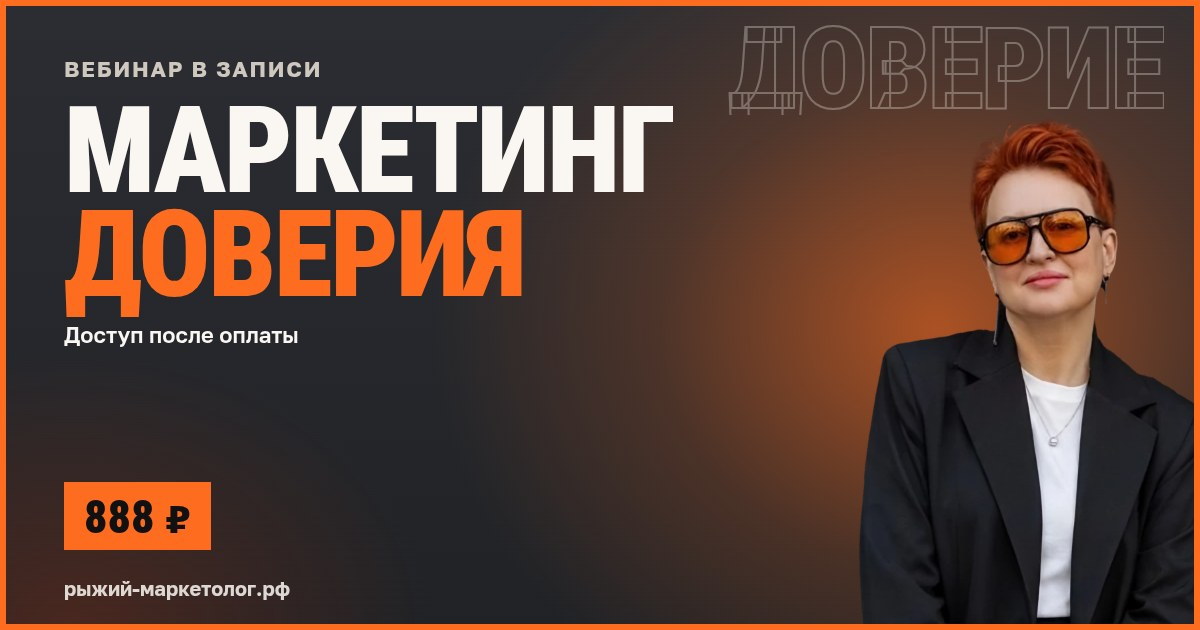
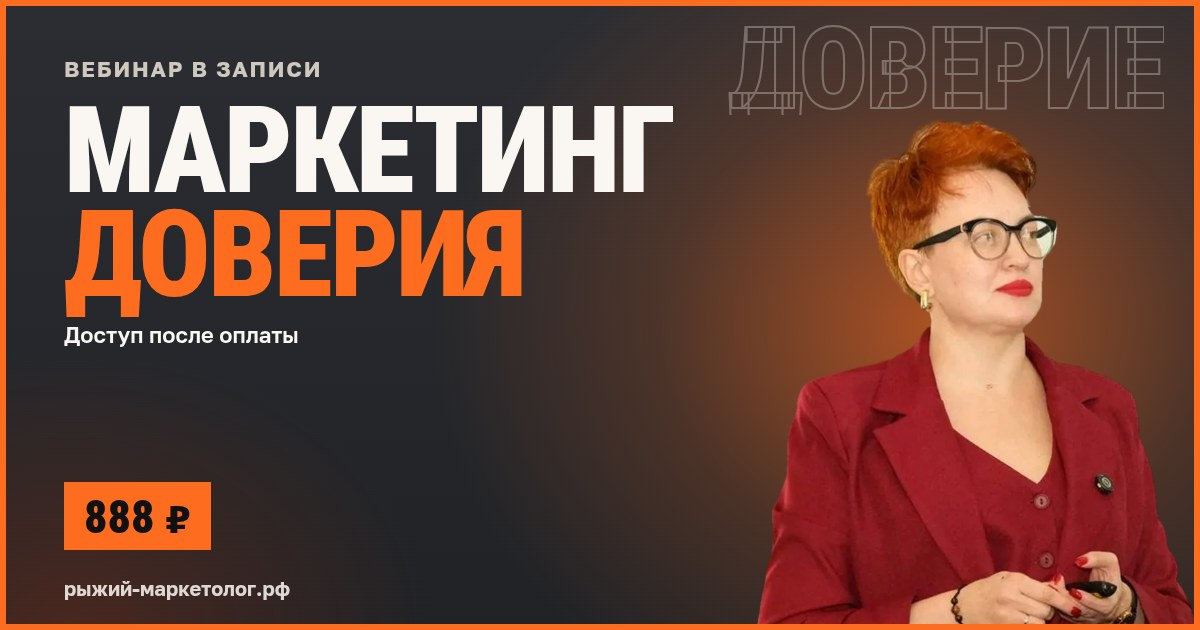
OG: у каждой содержательной страницы свой кадр
Возврат владельца («одна и та же»): ступени с языком только на главной,
нетворкинг — с телефоном, отзывы — тёплый портрет у стены, распаковка — шарф,
развитие — терраса, позиционирование — за столом (логотип за кадром),
записи — сцена с микрофоном и с шарами. Вырезы полным рецептом из библиотеки 2400 px,
лица прошли QC 1:1. ?v=20261022c, check-og: 16 страниц, 0 ошибок.

Claude-Session: https://claude.ai/code/session_011L8x4ubt6M66K2YLfJQJ7S

Changed region(s): [[0.6167, 0.181, 1.0, 0.9952]]

diff --git a/specs/005-og-cards/og-template.html b/specs/005-og-cards/og-template.html
@@ -43,7 +43,10 @@ const rub=s=>s.replace(/\s*₽/,R).replace(/(\d) (\d{3})/g,'$1 $2');
 // Кадры: вырезы новой съёмки (cut/og-suit-*.webp, x4 + BiRefNet + face-parsing) и дуэт вебинара.
 // fh — высота выреза на карточке. Макушка всегда на y=118: голова заходит только на низ слова-эхо (приём первого экрана вебинара),
 // низ фигуры уходит за край. Левый край фигуры — не левее x=752: колонке текста остаётся 660 px. fr — желаемый отступ справа.
-const STAIRS='cut/og-suit-stairs-tongue.webp', SQUAT='cut/og-suit-street-squat.webp', WALL='cut/og-suit-wall-bag.webp';
+const STAIRS='cut/og-suit-stairs-tongue.webp', WALL='cut/og-suit-wall-bag.webp';
+// у каждой из 10 содержательных страниц свой кадр (возврат владельца 22.10: «не каждая повторяется, а одна и та же»);
+// библиотека — cut/og-<имя>.webp из assets/img/<имя>-2400.webp, лица прошли QC 1:1 (qc.py), ступени с языком — только главная
+const CUT=n=>'cut/og-'+n+'.webp';
 const FULL={fh:520}, MID={fh:1000}, TOP=118, TEXT_W=660;
 const C=ev=>{
  const next=t=>ev.filter(e=>e.type===t&&Date.parse(e.start)>Date.now()).sort((a,b)=>Date.parse(a.start)-Date.parse(b.start));
@@ -52,16 +55,16 @@ const C=ev=>{
  'home':{img:STAIRS,...MID,fr:40,echo:'бренд',k:'Валентина Сухарева',h:'<em>Рыжий</em><br>маркетолог',sub:'Наставник по личному бренду',acc:'20+ лет в маркетинге'},
  'master-gruppa':{img:WALL,...FULL,fh:540,fr:90,echo:'группа',k:'Мастер-группа · до 5 человек',h:'Личный <em>бренд</em><br>за 4 недели',
    sub:'Онлайн · '+(mg?rub(mg.price):''),acc:mg?'Старт '+day(mg.start):''},
- 'networking':{img:SQUAT,...FULL,fr:30,echo:'связи',k:'Онлайн-нетворкинг',h:'Полезные<br><em>знакомства</em>',
+ 'networking':{img:CUT('portrait-phone-call'),fh:900,fr:0,echo:'связи',k:'Онлайн-нетворкинг',h:'Полезные<br><em>знакомства</em>',
    sub:nw.length?nw[0].time+' · Контур.Толк':'',acc:nw.slice(0,2).map(e=>day(e.start)).join(' и ')},
  'vebinar-uznavaemost':{img:'../../assets/img/vu-duo-1600.webp',fh:512,fr:24,gx:'74%',echo:'стиль',k:'Практический вебинар',h:'Чтобы тебя<br><em>запоминали</em>',
    sub:(vu?rub(vu.price):'')+' · с Анной Шиндиной',acc:vu?day(vu.start)+' · '+msk(vu.start,{hour:'2-digit',minute:'2-digit'})+' МСК':''},
- 'otzyvy':{img:WALL,...MID,fh:1040,fr:60,echo:'отзывы',k:'Отзывы клиенток',h:'Своими<br><em>словами</em>',sub:'Оригинал под каждым отзывом',acc:'30 отзывов без правок'},
- 'raspakovka':{img:STAIRS,...FULL,fr:30,echo:'игра',k:'Игра «Путь гениальности»',h:'Распаковка<br><em>личности</em>',sub:'2–4 часа · лично 10 000'+R,acc:'5 000'+R+' в группе'},
- 'razvitie':{img:SQUAT,...MID,fr:10,echo:'рост',k:'Наставник · 20+ лет в маркетинге',h:'Развитие<br>личного <em>бренда</em>',sub:'Консультация, мастер-группа, сопровождение',acc:'от 10 000'+R},
- 'pozicionirovanie':{img:SQUAT,...FULL,fr:30,echo:'смысл',k:'Статья',h:'Своё<br><em>позиционирование</em>',sub:'Вопросы и пример из практики',acc:'Больше подписчиков и клиентов'},
- 'zapis-lichnyj-brend':{img:STAIRS,...MID,fr:30,echo:'запись',k:'Вебинар в записи',h:'Как развить<br>личный <em>бренд</em>',sub:'Доступ сразу после оплаты',acc:'800'+R},
- 'marketing-doveriya':{img:WALL,...MID,fr:80,echo:'доверие',k:'Вебинар в записи',h:'Маркетинг<br><em>доверия</em>',sub:'Доступ после оплаты',acc:'888'+R},
+ 'otzyvy':{img:CUT('portrait-yalta-wall-smile'),fh:760,fr:20,echo:'отзывы',k:'Отзывы клиенток',h:'Своими<br><em>словами</em>',sub:'Оригинал под каждым отзывом',acc:'30 отзывов без правок'},
+ 'raspakovka':{img:CUT('portrait-plaid-closeup'),fh:620,fr:30,echo:'игра',k:'Игра «Путь гениальности»',h:'Распаковка<br><em>личности</em>',sub:'2–4 часа · лично 10 000'+R,acc:'5 000'+R+' в группе'},
+ 'razvitie':{img:CUT('portrait-terrace'),fh:880,fr:0,echo:'рост',k:'Наставник · 20+ лет в маркетинге',h:'Развитие<br>личного <em>бренда</em>',sub:'Консультация, мастер-группа, сопровождение',acc:'от 10 000'+R},
+ 'pozicionirovanie':{img:CUT('portrait-table-talk'),fh:560,fr:0,echo:'смысл',k:'Статья',h:'Своё<br><em>позиционирование</em>',sub:'Вопросы и пример из практики',acc:'Больше подписчиков и клиентов'},
+ 'zapis-lichnyj-brend':{img:CUT('portrait-mic'),fh:900,fr:40,echo:'запись',k:'Вебинар в записи',h:'Как развить<br>личный <em>бренд</em>',sub:'Доступ сразу после оплаты',acc:'800'+R},
+ 'marketing-doveriya':{img:CUT('speaker-balloons'),fh:760,fr:60,echo:'доверие',k:'Вебинар в записи',h:'Маркетинг<br><em>доверия</em>',sub:'Доступ после оплаты',acc:'888'+R},
  }};
 (async()=>{
  const id=new URLSearchParams(location.search).get('id');

diff --git a/vebinar-uznavaemost/index.html b/vebinar-uznavaemost/index.html
@@ -14,8 +14,8 @@
 <meta property="og:url" content="https://xn----8sbjhcmhkkgzbpg6a9j.xn--p1ai/vebinar-uznavaemost/">
 <meta property="og:title" content="Как сделать так, чтобы тебя запоминали — вебинар 29 октября">
 <meta property="og:description" content="Валентина Сухарева и Анна Шиндина, стилист-архетипист: смыслы, стиль и индивидуальность. 29 октября, 15:00 МСК, онлайн, 1 500 ₽.">
-<meta property="og:image" content="https://xn----8sbjhcmhkkgzbpg6a9j.xn--p1ai/assets/img/og-vebinar-uznavaemost.jpg?v=20261022b">
-<meta property="og:image:secure_url" content="https://xn----8sbjhcmhkkgzbpg6a9j.xn--p1ai/assets/img/og-vebinar-uznavaemost.jpg?v=20261022b">
+<meta property="og:image" content="https://xn----8sbjhcmhkkgzbpg6a9j.xn--p1ai/assets/img/og-vebinar-uznavaemost.jpg?v=20261022c">
+<meta property="og:image:secure_url" content="https://xn----8sbjhcmhkkgzbpg6a9j.xn--p1ai/assets/img/og-vebinar-uznavaemost.jpg?v=20261022c">
 <meta property="og:image:type" content="image/jpeg">
 <meta property="og:image:width" content="1200">
 <meta property="og:image:height" content="630">
@@ -23,7 +23,7 @@
 <meta name="twitter:card" content="summary_large_image">
 <meta name="twitter:title" content="Как сделать так, чтобы тебя запоминали — вебинар 29 октября">
 <meta name="twitter:description" content="Валентина Сухарева и Анна Шиндина, стилист-архетипист: смыслы, стиль и индивидуальность. 29 октября, 15:00 МСК, онлайн, 1 500 ₽.">
-<meta name="twitter:image" content="https://xn----8sbjhcmhkkgzbpg6a9j.xn--p1ai/assets/img/og-vebinar-uznavaemost.jpg?v=20261022b">
+<meta name="twitter:image" content="https://xn----8sbjhcmhkkgzbpg6a9j.xn--p1ai/assets/img/og-vebinar-uznavaemost.jpg?v=20261022c">
 <meta name="twitter:image:alt" content="Как сделать так, чтобы тебя запоминали. Практический вебинар 29 октября, 15:00 МСК, 1 500 ₽. Валентина Сухарева и Анна Шиндина.">
 <link rel="icon" href="/favicon.svg" type="image/svg+xml">
 <link rel="icon" href="/assets/img/favicon-32.png" sizes="32x32" type="image/png">

diff --git a/zapis-marketing-doveriya/index.html b/zapis-marketing-doveriya/index.html
@@ -13,8 +13,8 @@
 <meta property="og:url" content="https://xn----8sbjhcmhkkgzbpg6a9j.xn--p1ai/zapis-marketing-doveriya/">
 <meta property="og:title" content="Маркетинг доверия — вебинар в записи">
 <meta property="og:description" content="Почему у вас не покупают, 9 факторов доверия, деньги в вашей базе и нейросети в контенте. Запись эфира Валентины Сухаревой, доступ после оплаты, 888 ₽.">
-<meta property="og:image" content="https://xn----8sbjhcmhkkgzbpg6a9j.xn--p1ai/assets/img/og-marketing-doveriya.jpg?v=20261022b">
-<meta property="og:image:secure_url" content="https://xn----8sbjhcmhkkgzbpg6a9j.xn--p1ai/assets/img/og-marketing-doveriya.jpg?v=20261022b">
+<meta property="og:image" content="https://xn----8sbjhcmhkkgzbpg6a9j.xn--p1ai/assets/img/og-marketing-doveriya.jpg?v=20261022c">
+<meta property="og:image:secure_url" content="https://xn----8sbjhcmhkkgzbpg6a9j.xn--p1ai/assets/img/og-marketing-doveriya.jpg?v=20261022c">
 <meta property="og:image:type" content="image/jpeg">
 <meta property="og:image:width" content="1200">
 <meta property="og:image:height" content="630">
@@ -22,7 +22,7 @@
 <meta name="twitter:card" content="summary_large_image">
 <meta name="twitter:title" content="Маркетинг доверия — вебинар в записи">
 <meta name="twitter:description" content="Почему у вас не покупают, 9 факторов доверия, деньги в вашей базе и нейросети в контенте. Запись эфира Валентины Сухаревой, доступ после оплаты, 888 ₽.">
-<meta name="twitter:image" content="https://xn----8sbjhcmhkkgzbpg6a9j.xn--p1ai/assets/img/og-marketing-doveriya.jpg?v=20261022b">
+<meta name="twitter:image" content="https://xn----8sbjhcmhkkgzbpg6a9j.xn--p1ai/assets/img/og-marketing-doveriya.jpg?v=20261022c">
 <meta name="twitter:image:alt" content="Маркетинг доверия. Вебинар в записи, доступ после оплаты, 888 ₽. Валентина Сухарева.">
 <link href="/favicon.svg" rel="icon" type="image/svg+xml"/>
 <link href="/assets/img/favicon-32.png" rel="icon" sizes="32x32" type="image/png"/>

diff --git a/zapis-lichnyj-brend/index.html b/zapis-lichnyj-brend/index.html
@@ -14,8 +14,8 @@
 <meta property="og:url" content="https://xn----8sbjhcmhkkgzbpg6a9j.xn--p1ai/zapis-lichnyj-brend/">
 <meta property="og:title" content="Как развить личный бренд — вебинар в записи">
 <meta property="og:description" content="Практический вебинар Валентины Сухаревой: позиционирование, маркетинг доверия и контент без выгорания. Доступ сразу после оплаты, 800 ₽.">
-<meta property="og:image" content="https://xn----8sbjhcmhkkgzbpg6a9j.xn--p1ai/assets/img/og-zapis-lichnyj-brend.jpg?v=20261022b">
-<meta property="og:image:secure_url" content="https://xn----8sbjhcmhkkgzbpg6a9j.xn--p1ai/assets/img/og-zapis-lichnyj-brend.jpg?v=20261022b">
+<meta property="og:image" content="https://xn----8sbjhcmhkkgzbpg6a9j.xn--p1ai/assets/img/og-zapis-lichnyj-brend.jpg?v=20261022c">
+<meta property="og:image:secure_url" content="https://xn----8sbjhcmhkkgzbpg6a9j.xn--p1ai/assets/img/og-zapis-lichnyj-brend.jpg?v=20261022c">
 <meta property="og:image:type" content="image/jpeg">
 <meta property="og:image:width" content="1200">
 <meta property="og:image:height" content="630">
@@ -23,7 +23,7 @@
 <meta name="twitter:card" content="summary_large_image">
 <meta name="twitter:title" content="Как развить личный бренд — вебинар в записи">
 <meta name="twitter:description" content="Практический вебинар Валентины Сухаревой: позиционирование, маркетинг доверия и контент без выгорания. Доступ сразу после оплаты, 800 ₽.">
-<meta name="twitter:image" content="https://xn----8sbjhcmhkkgzbpg6a9j.xn--p1ai/assets/img/og-zapis-lichnyj-brend.jpg?v=20261022b">
+<meta name="twitter:image" content="https://xn----8sbjhcmhkkgzbpg6a9j.xn--p1ai/assets/img/og-zapis-lichnyj-brend.jpg?v=20261022c">
 <meta name="twitter:image:alt" content="Как развить личный бренд. Вебинар в записи, доступ сразу, 800 ₽. Валентина Сухарева.">
 <link rel="icon" href="/favicon.svg" type="image/svg+xml">
 <link rel="icon" href="/assets/img/favicon-32.png" sizes="32x32" type="image/png">

diff --git a/pozicionirovanie/index.html b/pozicionirovanie/index.html
@@ -40,8 +40,8 @@
 <meta property="og:url" content="https://xn----8sbjhcmhkkgzbpg6a9j.xn--p1ai/pozicionirovanie/">
 <meta property="og:title" content="Как найти своё позиционирование">
 <meta property="og:description" content="Больше подписчиков и клиентов: статья Валентины Сухаревой о позиционировании, уникальности и отличиях от конкурентов. Вопросы и пример из практики.">
-<meta property="og:image" content="https://xn----8sbjhcmhkkgzbpg6a9j.xn--p1ai/assets/img/og-pozicionirovanie.jpg?v=20261022b">
-<meta property="og:image:secure_url" content="https://xn----8sbjhcmhkkgzbpg6a9j.xn--p1ai/assets/img/og-pozicionirovanie.jpg?v=20261022b">
+<meta property="og:image" content="https://xn----8sbjhcmhkkgzbpg6a9j.xn--p1ai/assets/img/og-pozicionirovanie.jpg?v=20261022c">
+<meta property="og:image:secure_url" content="https://xn----8sbjhcmhkkgzbpg6a9j.xn--p1ai/assets/img/og-pozicionirovanie.jpg?v=20261022c">
 <meta property="og:image:type" content="image/jpeg">
 <meta property="og:image:width" content="1200">
 <meta property="og:image:height" content="630">
@@ -49,7 +49,7 @@
 <meta name="twitter:card" content="summary_large_image">
 <meta name="twitter:title" content="Как найти своё позиционирование">
 <meta name="twitter:description" content="Больше подписчиков и клиентов: статья Валентины Сухаревой о позиционировании, уникальности и отличиях от конкурентов. Вопросы и пример из практики.">
-<meta name="twitter:image" content="https://xn----8sbjhcmhkkgzbpg6a9j.xn--p1ai/assets/img/og-pozicionirovanie.jpg?v=20261022b">
+<meta name="twitter:image" content="https://xn----8sbjhcmhkkgzbpg6a9j.xn--p1ai/assets/img/og-pozicionirovanie.jpg?v=20261022c">
 <meta name="twitter:image:alt" content="Как найти своё позиционирование. Больше подписчиков и клиентов. Валентина Сухарева.">
 <meta property="article:published_time" content="2024-10-29">
 <meta property="article:author" content="Валентина Сухарева">

diff --git a/webinar/index.html b/webinar/index.html
@@ -10,8 +10,8 @@
 <meta property="og:url" content="https://xn----8sbjhcmhkkgzbpg6a9j.xn--p1ai/zapis-lichnyj-brend/">
 <meta property="og:title" content="Как развить личный бренд — вебинар в записи">
 <meta property="og:description" content="Практический вебинар Валентины Сухаревой: позиционирование, маркетинг доверия и контент без выгорания. Доступ сразу после оплаты, 800 ₽.">
-<meta property="og:image" content="https://xn----8sbjhcmhkkgzbpg6a9j.xn--p1ai/assets/img/og-zapis-lichnyj-brend.jpg?v=20261022b">
-<meta property="og:image:secure_url" content="https://xn----8sbjhcmhkkgzbpg6a9j.xn--p1ai/assets/img/og-zapis-lichnyj-brend.jpg?v=20261022b">
+<meta property="og:image" content="https://xn----8sbjhcmhkkgzbpg6a9j.xn--p1ai/assets/img/og-zapis-lichnyj-brend.jpg?v=20261022c">
+<meta property="og:image:secure_url" content="https://xn----8sbjhcmhkkgzbpg6a9j.xn--p1ai/assets/img/og-zapis-lichnyj-brend.jpg?v=20261022c">
 <meta property="og:image:type" content="image/jpeg">
 <meta property="og:image:width" content="1200">
 <meta property="og:image:height" content="630">
@@ -19,7 +19,7 @@
 <meta name="twitter:card" content="summary_large_image">
 <meta name="twitter:title" content="Как развить личный бренд — вебинар в записи">
 <meta name="twitter:description" content="Практический вебинар Валентины Сухаревой: позиционирование, маркетинг доверия и контент без выгорания. Доступ сразу после оплаты, 800 ₽.">
-<meta name="twitter:image" content="https://xn----8sbjhcmhkkgzbpg6a9j.xn--p1ai/assets/img/og-zapis-lichnyj-brend.jpg?v=20261022b">
+<meta name="twitter:image" content="https://xn----8sbjhcmhkkgzbpg6a9j.xn--p1ai/assets/img/og-zapis-lichnyj-brend.jpg?v=20261022c">
 <meta name="twitter:image:alt" content="Как развить личный бренд. Вебинар в записи, доступ сразу, 800 ₽. Валентина Сухарева.">
 <meta name="robots" content="noindex">
 <meta name="viewport" content="width=device-width, initial-scale=1">

diff --git a/master-gruppa-lichnyj-brend/index.html b/master-gruppa-lichnyj-brend/index.html
@@ -14,8 +14,8 @@
 <meta property="og:url" content="https://xn----8sbjhcmhkkgzbpg6a9j.xn--p1ai/master-gruppa-lichnyj-brend/">
 <meta property="og:title" content="Личный бренд за 4 недели — мастер-группа">
 <meta property="og:description" content="Мастер-группа до 5 человек, старт 5 ноября. Позиционирование, смыслы и контент без выгорания. Онлайн, 12 500 ₽, можно оплатить долями.">
-<meta property="og:image" content="https://xn----8sbjhcmhkkgzbpg6a9j.xn--p1ai/assets/img/og-master-gruppa.jpg?v=20261022b">
-<meta property="og:image:secure_url" content="https://xn----8sbjhcmhkkgzbpg6a9j.xn--p1ai/assets/img/og-master-gruppa.jpg?v=20261022b">
+<meta property="og:image" content="https://xn----8sbjhcmhkkgzbpg6a9j.xn--p1ai/assets/img/og-master-gruppa.jpg?v=20261022c">
+<meta property="og:image:secure_url" content="https://xn----8sbjhcmhkkgzbpg6a9j.xn--p1ai/assets/img/og-master-gruppa.jpg?v=20261022c">
 <meta property="og:image:type" content="image/jpeg">
 <meta property="og:image:width" content="1200">
 <meta property="og:image:height" content="630">
@@ -23,7 +23,7 @@
 <meta name="twitter:card" content="summary_large_image">
 <meta name="twitter:title" content="Личный бренд за 4 недели — мастер-группа">
 <meta name="twitter:description" content="Мастер-группа до 5 человек, старт 5 ноября. Позиционирование, смыслы и контент без выгорания. Онлайн, 12 500 ₽, можно оплатить долями.">
-<meta name="twitter:image" content="https://xn----8sbjhcmhkkgzbpg6a9j.xn--p1ai/assets/img/og-master-gruppa.jpg?v=20261022b">
+<meta name="twitter:image" content="https://xn----8sbjhcmhkkgzbpg6a9j.xn--p1ai/assets/img/og-master-gruppa.jpg?v=20261022c">
 <meta name="twitter:image:alt" content="Личный бренд за 4 недели. Мастер-группа до 5 человек, старт 5 ноября, 12 500 ₽. Валентина Сухарева.">
 <link rel="icon" href="/favicon.svg" type="image/svg+xml">
 <link rel="icon" href="/assets/img/favicon-32.png" sizes="32x32" type="image/png">

diff --git a/raspakovka-lichnosti/index.html b/raspakovka-lichnosti/index.html
@@ -14,8 +14,8 @@
 <meta property="og:url" content="https://xn----8sbjhcmhkkgzbpg6a9j.xn--p1ai/raspakovka-lichnosti/">
 <meta property="og:title" content="Распаковка личности эксперта">
 <meta property="og:description" content="Игра «Путь гениальности»: за 2–4 часа находим вашу уникальность и собираем позиционирование в одно предложение. В группе 5 000 ₽, лично 10 000 ₽.">
-<meta property="og:image" content="https://xn----8sbjhcmhkkgzbpg6a9j.xn--p1ai/assets/img/og-raspakovka.jpg?v=20261022b">
-<meta property="og:image:secure_url" content="https://xn----8sbjhcmhkkgzbpg6a9j.xn--p1ai/assets/img/og-raspakovka.jpg?v=20261022b">
+<meta property="og:image" content="https://xn----8sbjhcmhkkgzbpg6a9j.xn--p1ai/assets/img/og-raspakovka.jpg?v=20261022c">
+<meta property="og:image:secure_url" content="https://xn----8sbjhcmhkkgzbpg6a9j.xn--p1ai/assets/img/og-raspakovka.jpg?v=20261022c">
 <meta property="og:image:type" content="image/jpeg">
 <meta property="og:image:width" content="1200">
 <meta property="og:image:height" content="630">
@@ -23,7 +23,7 @@
 <meta name="twitter:card" content="summary_large_image">
 <meta name="twitter:title" content="Распаковка личности эксперта">
 <meta name="twitter:description" content="Игра «Путь гениальности»: за 2–4 часа находим вашу уникальность и собираем позиционирование в одно предложение. В группе 5 000 ₽, лично 10 000 ₽.">
-<meta name="twitter:image" content="https://xn----8sbjhcmhkkgzbpg6a9j.xn--p1ai/assets/img/og-raspakovka.jpg?v=20261022b">
+<meta name="twitter:image" content="https://xn----8sbjhcmhkkgzbpg6a9j.xn--p1ai/assets/img/og-raspakovka.jpg?v=20261022c">
 <meta name="twitter:image:alt" content="Распаковка личности. Игра «Путь гениальности», в группе 5 000 ₽, лично 10 000 ₽. Валентина Сухарева.">
 <link rel="icon" href="/favicon.svg" type="image/svg+xml">
 <link rel="icon" href="/assets/img/favicon-32.png" sizes="32x32" type="image/png">

diff --git a/otzyvy/index.html b/otzyvy/index.html
@@ -13,8 +13,8 @@
 <meta property="og:url" content="https://xn----8sbjhcmhkkgzbpg6a9j.xn--p1ai/otzyvy/">
 <meta property="og:title" content="Отзывы о работе с Валентиной Сухаревой">
 <meta property="og:description" content="30 отзывов клиенток: мастер-группа, мастермайнды, вебинары, обучение, консультации, игра «Путь гениальности». Оригинал — под каждым отзывом, без правок.">
-<meta property="og:image" content="https://xn----8sbjhcmhkkgzbpg6a9j.xn--p1ai/assets/img/og-otzyvy.jpg?v=20261022b">
-<meta property="og:image:secure_url" content="https://xn----8sbjhcmhkkgzbpg6a9j.xn--p1ai/assets/img/og-otzyvy.jpg?v=20261022b">
+<meta property="og:image" content="https://xn----8sbjhcmhkkgzbpg6a9j.xn--p1ai/assets/img/og-otzyvy.jpg?v=20261022c">
+<meta property="og:image:secure_url" content="https://xn----8sbjhcmhkkgzbpg6a9j.xn--p1ai/assets/img/og-otzyvy.jpg?v=20261022c">
 <meta property="og:image:type" content="image/jpeg">
 <meta property="og:image:width" content="1200">
 <meta property="og:image:height" content="630">
@@ -22,7 +22,7 @@
 <meta name="twitter:card" content="summary_large_image">
 <meta name="twitter:title" content="Отзывы о работе с Валентиной Сухаревой">
 <meta name="twitter:description" content="30 отзывов клиенток: мастер-группа, мастермайнды, вебинары, обучение, консультации, игра «Путь гениальности». Оригинал — под каждым отзывом, без правок.">
-<meta name="twitter:image" content="https://xn----8sbjhcmhkkgzbpg6a9j.xn--p1ai/assets/img/og-otzyvy.jpg?v=20261022b">
+<meta name="twitter:image" content="https://xn----8sbjhcmhkkgzbpg6a9j.xn--p1ai/assets/img/og-otzyvy.jpg?v=20261022c">
 <meta name="twitter:image:alt" content="Отзывы своими словами: 30 отзывов клиенток без правок. Валентина Сухарева.">
 <link rel="icon" href="/favicon.svg" type="image/svg+xml">
 <link rel="icon" href="/assets/img/favicon-32.png" sizes="32x32" type="image/png">

diff --git a/razvitie-lichnogo-brenda/index.html b/razvitie-lichnogo-brenda/index.html
@@ -14,8 +14,8 @@
 <meta property="og:url" content="https://xn----8sbjhcmhkkgzbpg6a9j.xn--p1ai/razvitie-lichnogo-brenda/">
 <meta property="og:title" content="Развитие личного бренда с наставником">
 <meta property="og:description" content="Смыслы, продукт, контент и путь клиента. Консультация 10 000 ₽, мастер-группа 12 500 ₽, сопровождение 30 000 ₽. Онлайн по всей России.">
-<meta property="og:image" content="https://xn----8sbjhcmhkkgzbpg6a9j.xn--p1ai/assets/img/og-razvitie.jpg?v=20261022b">
-<meta property="og:image:secure_url" content="https://xn----8sbjhcmhkkgzbpg6a9j.xn--p1ai/assets/img/og-razvitie.jpg?v=20261022b">
+<meta property="og:image" content="https://xn----8sbjhcmhkkgzbpg6a9j.xn--p1ai/assets/img/og-razvitie.jpg?v=20261022c">
+<meta property="og:image:secure_url" content="https://xn----8sbjhcmhkkgzbpg6a9j.xn--p1ai/assets/img/og-razvitie.jpg?v=20261022c">
 <meta property="og:image:type" content="image/jpeg">
 <meta property="og:image:width" content="1200">
 <meta property="og:image:height" content="630">
@@ -23,7 +23,7 @@
 <meta name="twitter:card" content="summary_large_image">
 <meta name="twitter:title" content="Развитие личного бренда с наставником">
 <meta name="twitter:description" content="Смыслы, продукт, контент и путь клиента. Консультация 10 000 ₽, мастер-группа 12 500 ₽, сопровождение 30 000 ₽. Онлайн по всей России.">
-<meta name="twitter:image" content="https://xn----8sbjhcmhkkgzbpg6a9j.xn--p1ai/assets/img/og-razvitie.jpg?v=20261022b">
+<meta name="twitter:image" content="https://xn----8sbjhcmhkkgzbpg6a9j.xn--p1ai/assets/img/og-razvitie.jpg?v=20261022c">
 <meta name="twitter:image:alt" content="Развитие личного бренда с наставником, онлайн, от 10 000 ₽. Валентина Сухарева.">
 <link rel="icon" href="/favicon.svg" type="image/svg+xml">
 <link rel="icon" href="/assets/img/favicon-32.png" sizes="32x32" type="image/png">

diff --git a/legal/privacy/index.html b/legal/privacy/index.html
@@ -13,8 +13,8 @@
 <meta property="og:url" content="https://xn----8sbjhcmhkkgzbpg6a9j.xn--p1ai/legal/privacy/">
 <meta property="og:title" content="Политика обработки персональных данных">
 <meta property="og:description" content="Политика в отношении обработки персональных данных сайта Рыжий маркетолог. Оператор — ИП Сухарева Валентина Александровна.">
-<meta property="og:image" content="https://xn----8sbjhcmhkkgzbpg6a9j.xn--p1ai/assets/img/og-home.jpg?v=20261022b">
-<meta property="og:image:secure_url" content="https://xn----8sbjhcmhkkgzbpg6a9j.xn--p1ai/assets/img/og-home.jpg?v=20261022b">
+<meta property="og:image" content="https://xn----8sbjhcmhkkgzbpg6a9j.xn--p1ai/assets/img/og-home.jpg?v=20261022c">
+<meta property="og:image:secure_url" content="https://xn----8sbjhcmhkkgzbpg6a9j.xn--p1ai/assets/img/og-home.jpg?v=20261022c">
 <meta property="og:image:type" content="image/jpeg">
 <meta property="og:image:width" content="1200">
 <meta property="og:image:height" content="630">
@@ -22,7 +22,7 @@
 <meta name="twitter:card" content="summary_large_image">
 <meta name="twitter:title" content="Политика обработки персональных данных">
 <meta name="twitter:description" content="Политика в отношении обработки персональных данных сайта Рыжий маркетолог. Оператор — ИП Сухарева Валентина Александровна.">
-<meta name="twitter:image" content="https://xn----8sbjhcmhkkgzbpg6a9j.xn--p1ai/assets/img/og-home.jpg?v=20261022b">
+<meta name="twitter:image" content="https://xn----8sbjhcmhkkgzbpg6a9j.xn--p1ai/assets/img/og-home.jpg?v=20261022c">
 <meta name="twitter:image:alt" content="Рыжий маркетолог. Валентина Сухарева — наставник по личному бренду, 20+ лет в маркетинге, онлайн.">
 <link rel="icon" href="/favicon.svg" type="image/svg+xml">
 <link rel="icon" href="/assets/img/favicon-32.png" sizes="32x32" type="image/png">

diff --git a/index.html b/index.html
@@ -14,8 +14,8 @@
 <meta property="og:url" content="https://xn----8sbjhcmhkkgzbpg6a9j.xn--p1ai/">
 <meta property="og:title" content="Рыжий маркетолог — Валентина Сухарева">
 <meta property="og:description" content="Наставник по личному бренду и продвижению экспертов. Работает онлайн по всей России, база — Сочи. Опыт в маркетинге более 20 лет.">
-<meta property="og:image" content="https://xn----8sbjhcmhkkgzbpg6a9j.xn--p1ai/assets/img/og-home.jpg?v=20261022b">
-<meta property="og:image:secure_url" content="https://xn----8sbjhcmhkkgzbpg6a9j.xn--p1ai/assets/img/og-home.jpg?v=20261022b">
+<meta property="og:image" content="https://xn----8sbjhcmhkkgzbpg6a9j.xn--p1ai/assets/img/og-home.jpg?v=20261022c">
+<meta property="og:image:secure_url" content="https://xn----8sbjhcmhkkgzbpg6a9j.xn--p1ai/assets/img/og-home.jpg?v=20261022c">
 <meta property="og:image:type" content="image/jpeg">
 <meta property="og:image:width" content="1200">
 <meta property="og:image:height" content="630">
@@ -23,7 +23,7 @@
 <meta name="twitter:card" content="summary_large_image">
 <meta name="twitter:title" content="Рыжий маркетолог — Валентина Сухарева">
 <meta name="twitter:description" content="Наставник по личному бренду и продвижению экспертов. Работает онлайн по всей России, база — Сочи. Опыт в маркетинге более 20 лет.">
-<meta name="twitter:image" content="https://xn----8sbjhcmhkkgzbpg6a9j.xn--p1ai/assets/img/og-home.jpg?v=20261022b">
+<meta name="twitter:image" content="https://xn----8sbjhcmhkkgzbpg6a9j.xn--p1ai/assets/img/og-home.jpg?v=20261022c">
 <meta name="twitter:image:alt" content="Рыжий маркетолог. Валентина Сухарева — наставник по личному бренду, 20+ лет в маркетинге, онлайн.">
 <link rel="icon" href="/favicon.svg" type="image/svg+xml">
 <link rel="icon" href="/assets/img/favicon-32.png" sizes="32x32" type="image/png">
